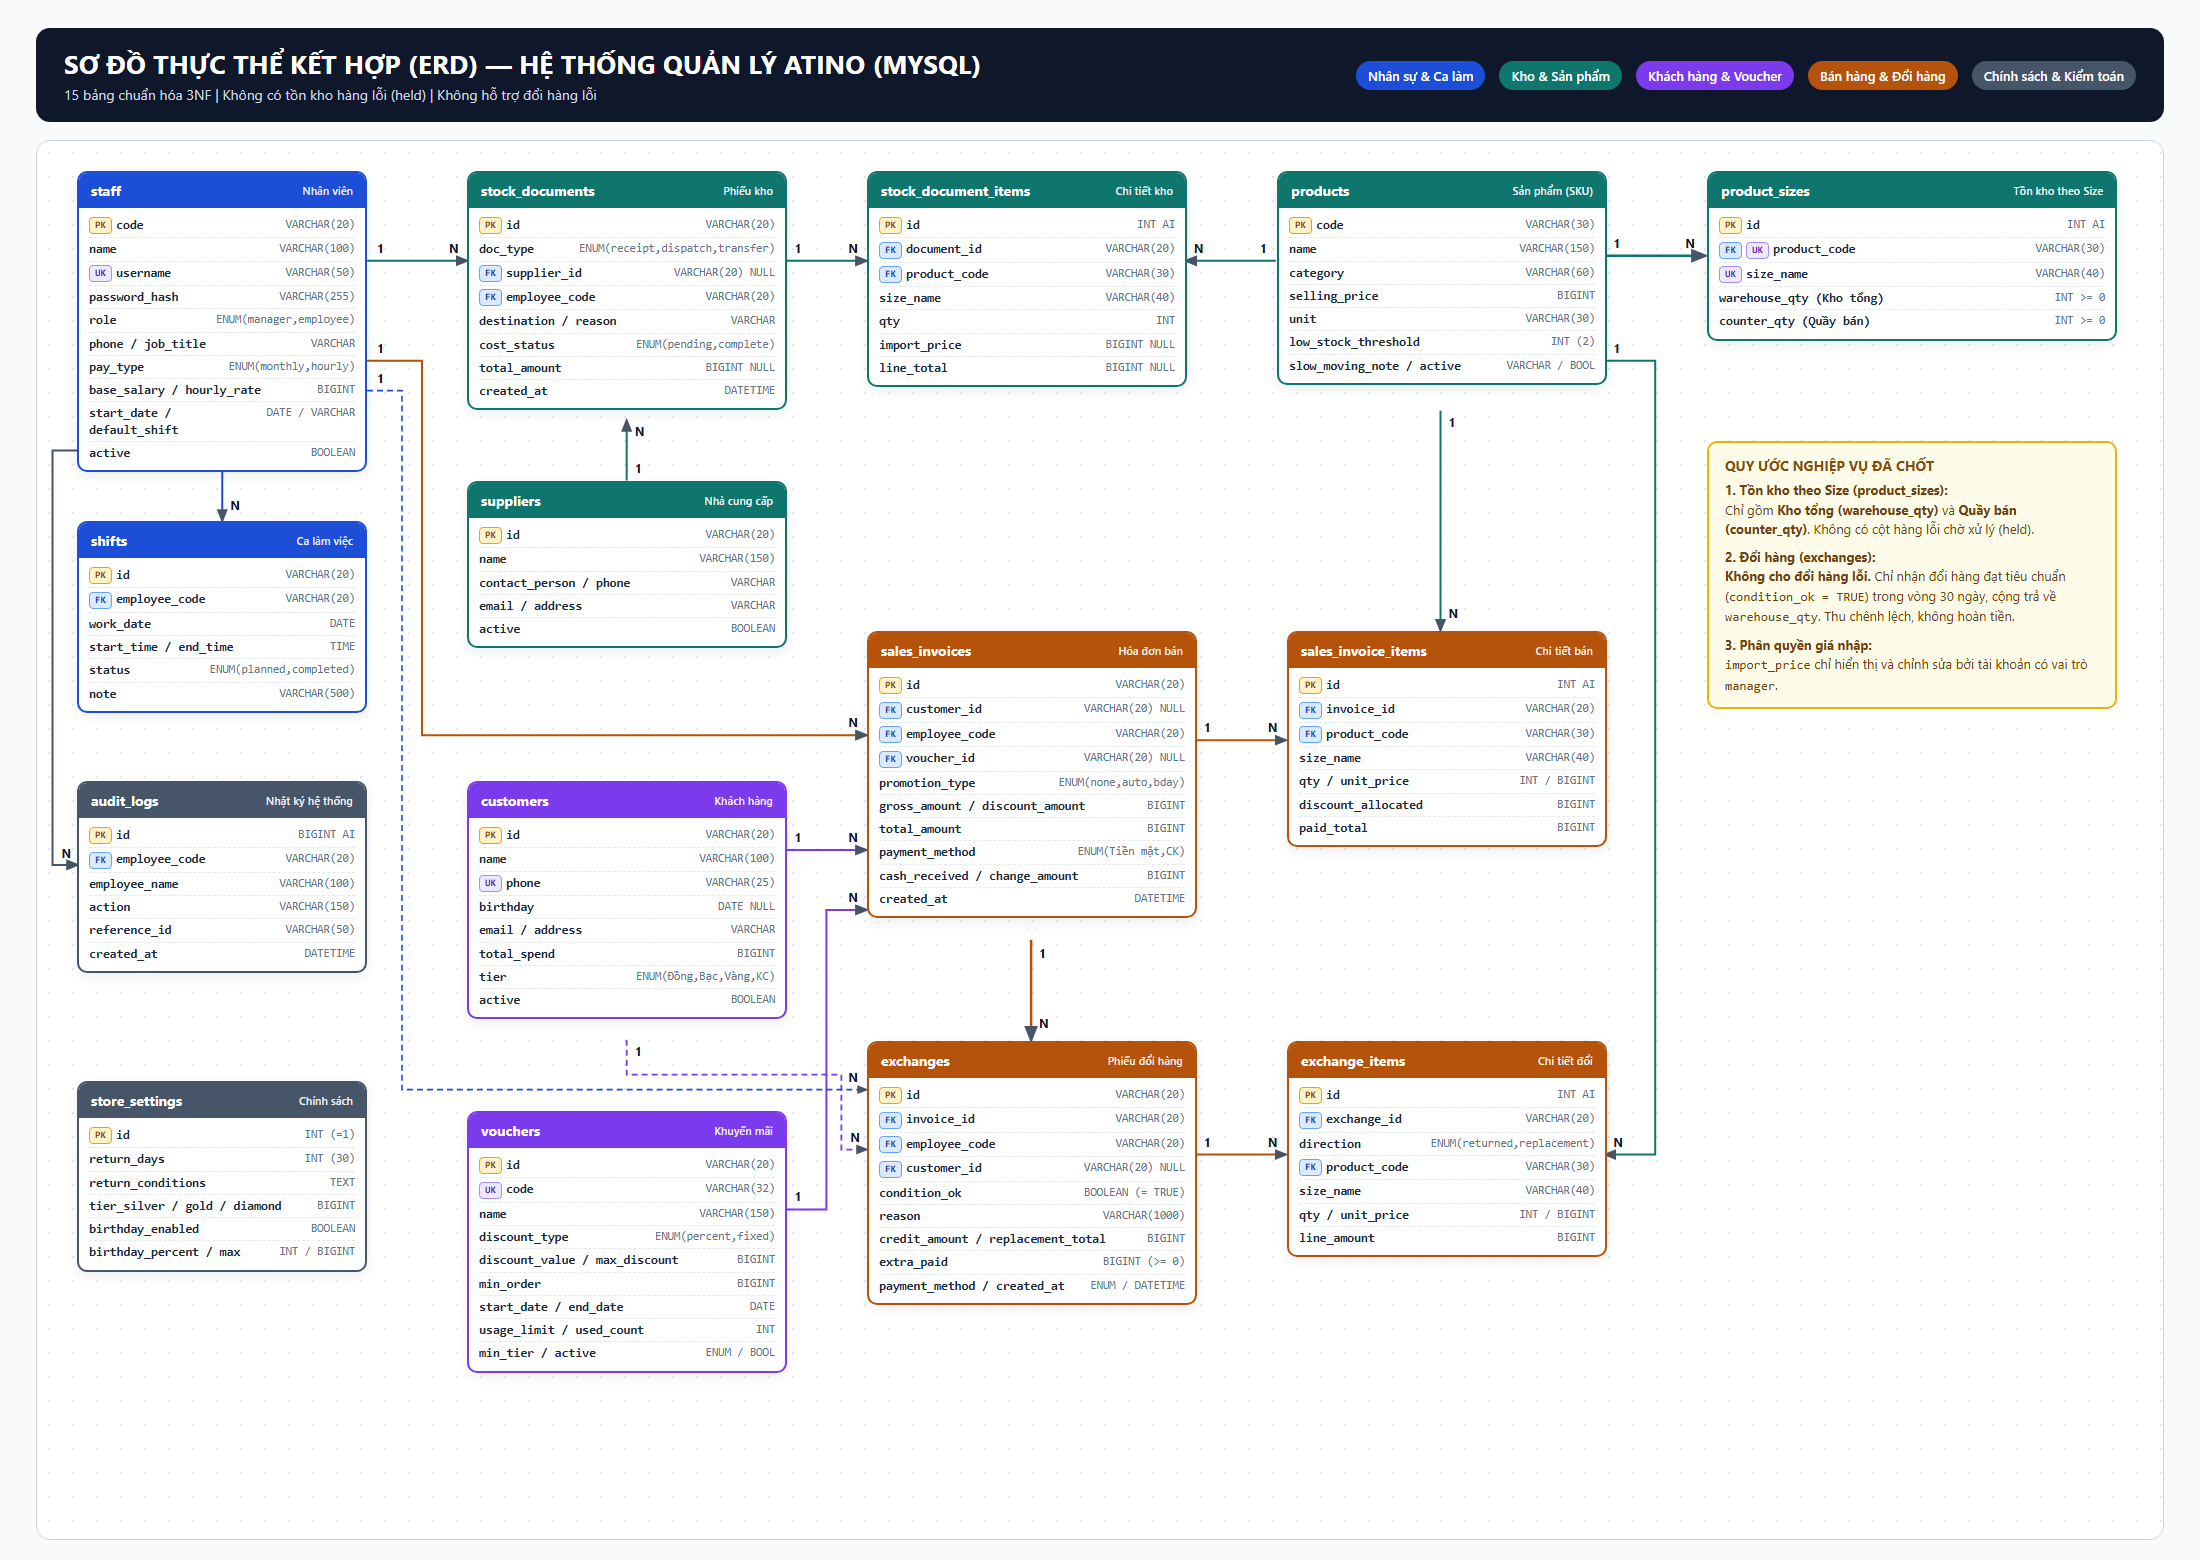
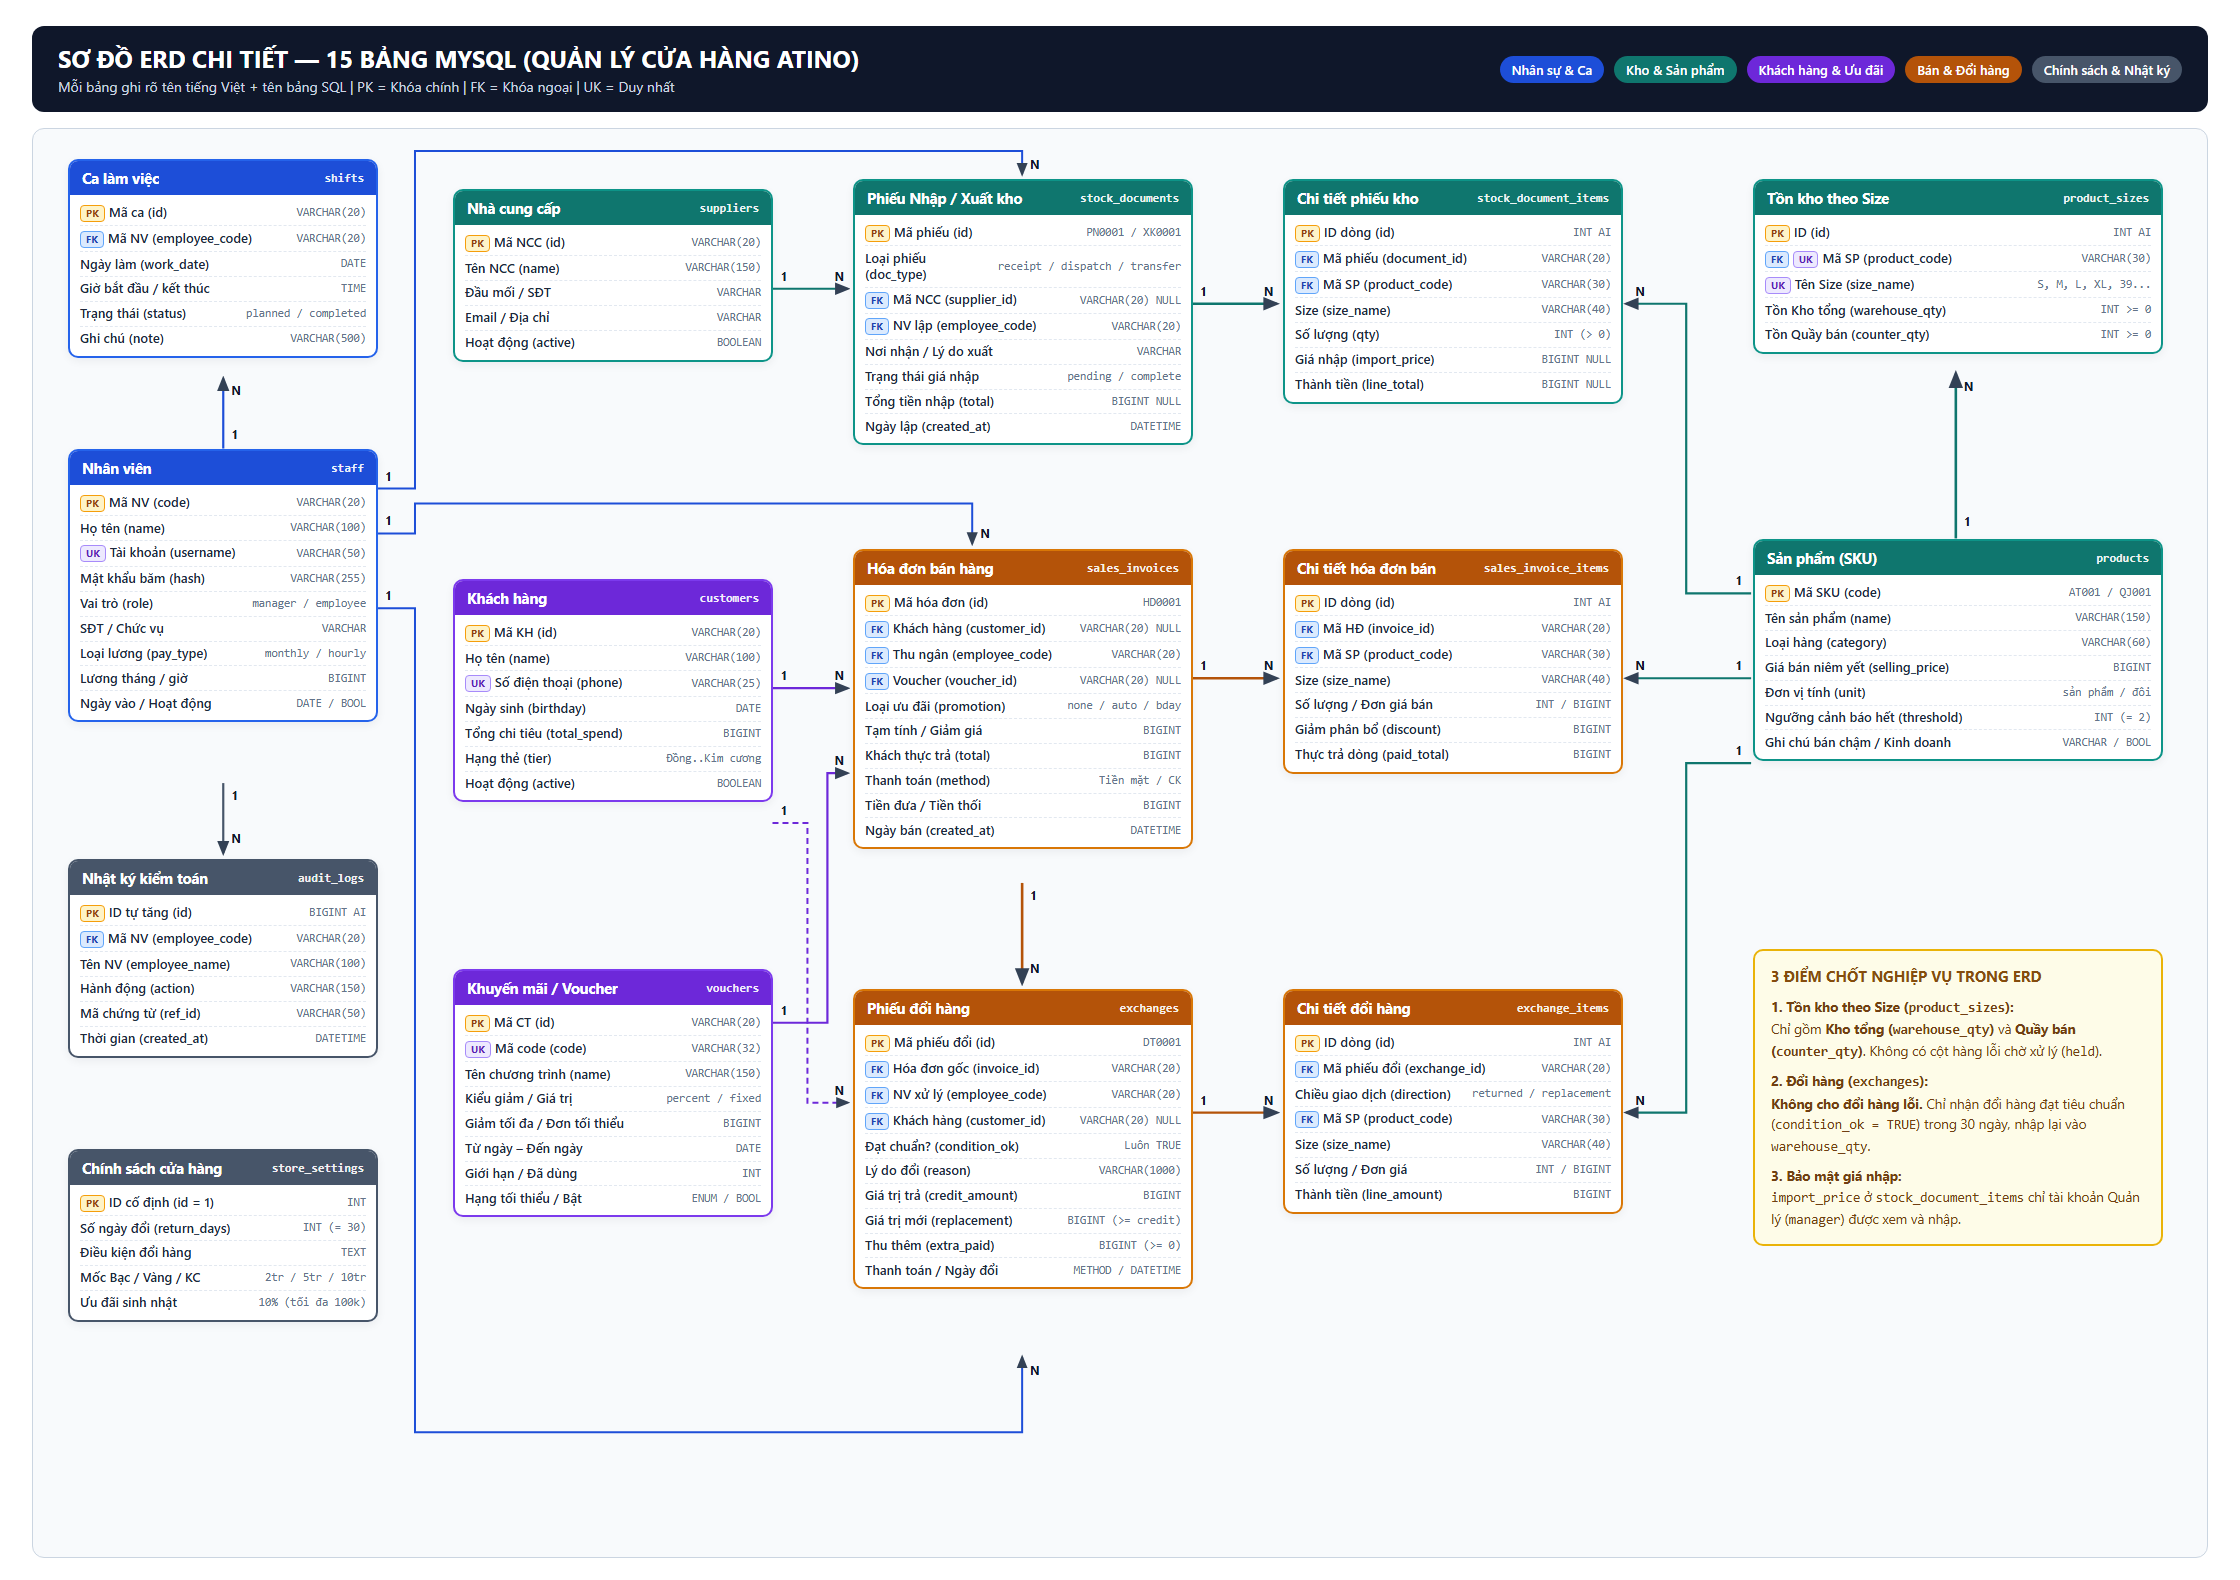
Docs: Redesign ERD diagrams for clarity and add simplified overview

Changed region(s): [[0.0, 0.0308, 0.9891, 0.8923], [0.7727, 0.6154, 0.9582, 0.8]]

diff --git a/README.md b/README.md
@@ -24,8 +24,9 @@ quan_ly_atino/
 ├── docs/
 │   ├── SPEC-CHUC-NANG.md             # Đặc tả chi tiết 10 nhóm chức năng đã chốt
 │   ├── ERD-ATINO.md                  # Tài liệu ERD & thiết kế 15 bảng MySQL (cho Agent)
-│   ├── ERD-ATINO.docx                # Tài liệu ERD bản Word kèm sơ đồ (để đọc & nộp báo cáo)
-│   ├── erd-atino.png                 # Ảnh sơ đồ ERD 15 bảng
+│   ├── ERD-ATINO.docx                # Tài liệu ERD bản Word kèm 2 sơ đồ (tổng quan & chi tiết)
+│   ├── erd-tong-quan.png             # Ảnh sơ đồ tổng quan dễ đọc (cho người mới & vấn đáp)
+│   ├── erd-atino.png                 # Ảnh sơ đồ ERD chi tiết 15 bảng
 │   └── HUONG-DAN-VAN-DAP.md          # Giải thích kiến trúc & thuật toán dễ học để vấn đáp
 ├── dist/                             # Mã nguồn Frontend tĩnh (HTML, CSS, JS thuần)
 └── backend/                          # (Dành cho Agent triển khai Backend Python Flask + MySQL)

diff --git a/docs/ERD-ATINO.md b/docs/ERD-ATINO.md
@@ -10,7 +10,8 @@ Tài liệu mô tả chi tiết mô hình thực thể kết hợp (**ERD**) và
 
 ## 1. Sơ đồ ERD trực quan
 
-Xem ảnh sơ đồ đầy đủ tại [erd-atino.png](./erd-atino.png) (hoặc bản Word kèm giải thích tại [ERD-ATINO.docx](./ERD-ATINO.docx)).
+- **Sơ đồ tổng quan dễ đọc (cho người mới & trình bày vấn đáp):** [erd-tong-quan.png](./erd-tong-quan.png)
+- **Sơ đồ chi tiết 15 bảng MySQL:** [erd-atino.png](./erd-atino.png) (và bản Word kèm giải thích tại [ERD-ATINO.docx](./ERD-ATINO.docx)).
 
 ```mermaid
 erDiagram
